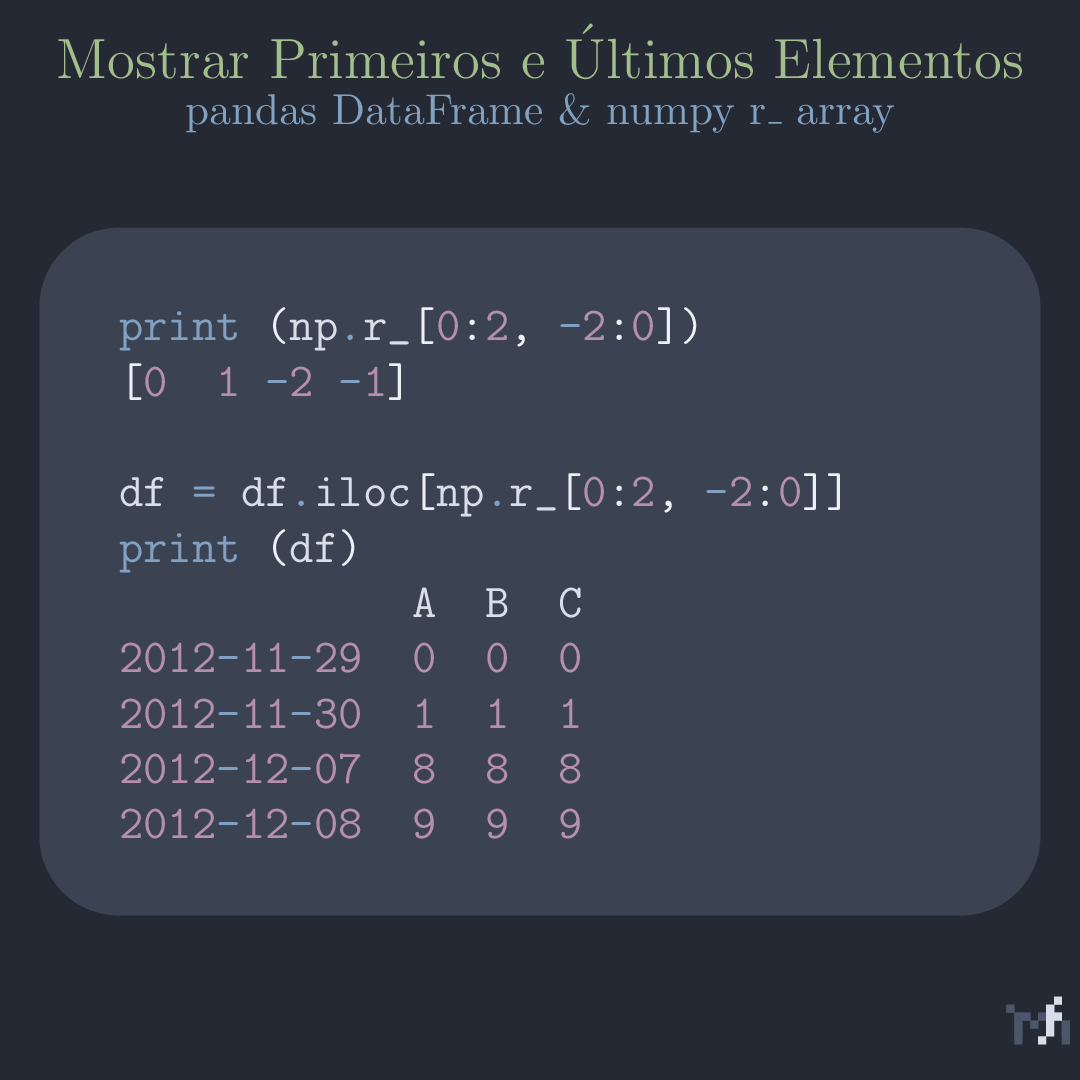
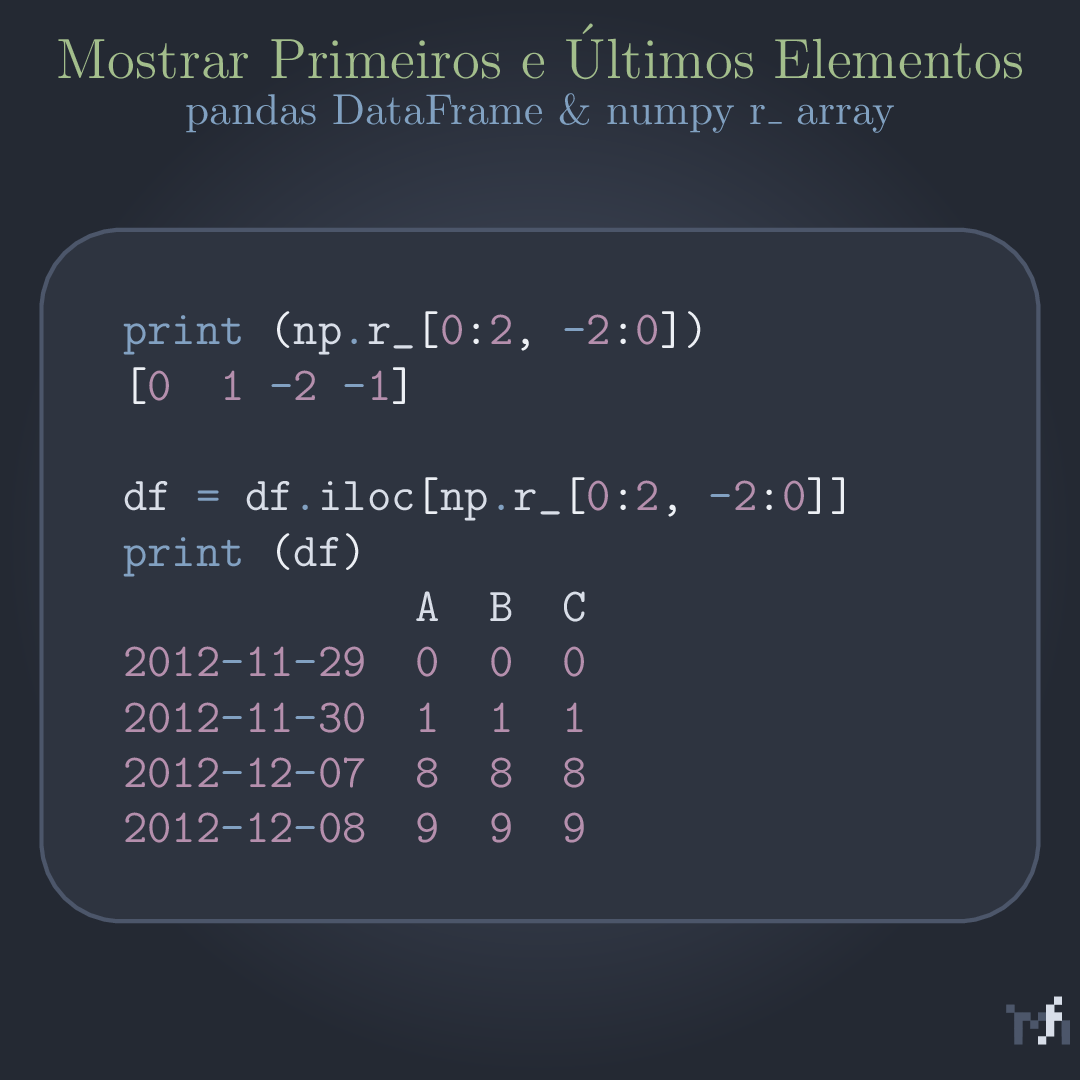
Add border line and radial brighter shading

diff --git a/main.tex b/main.tex
@@ -77,10 +77,11 @@ leftmargin=10pt,
 rightmargin=10pt,
 rightline=true,innerleftmargin=20,innerrightmargin=10,
 frametitlerule=false,
-backgroundcolor=NordBlack,
+backgroundcolor=NordDarkBlack,
 frametitlerulewidth=0pt,
 align=center,
-linewidth=0pt,
+linecolor=NordBrightBlack,
+linewidth=1pt,
 shadow=false,
 shadowsize=3pt,
 shadowcolor=NordWhite,
@@ -90,7 +91,15 @@ roundcorner=20pt}
 \begin{document}
 % \fontsize{4pt}{1}\selectfont
 
-\setbeamercolor{background canvas}{bg=NordBG}
+% \setbeamercolor{background canvas}{bg=NordBG}
+\setbeamertemplate{background canvas}{%
+	\begin{tikzpicture}[remember picture,overlay]
+		\shade[outer color=NordBG, inner color=NordBrightBlack]
+		([shift={(0cm,0cm)}]current page.north west)
+		rectangle
+		([shift={(0cm,0cm)}]current page.south east);
+	\end{tikzpicture}%
+}
 
 \usemintedstyle{nord}
 
